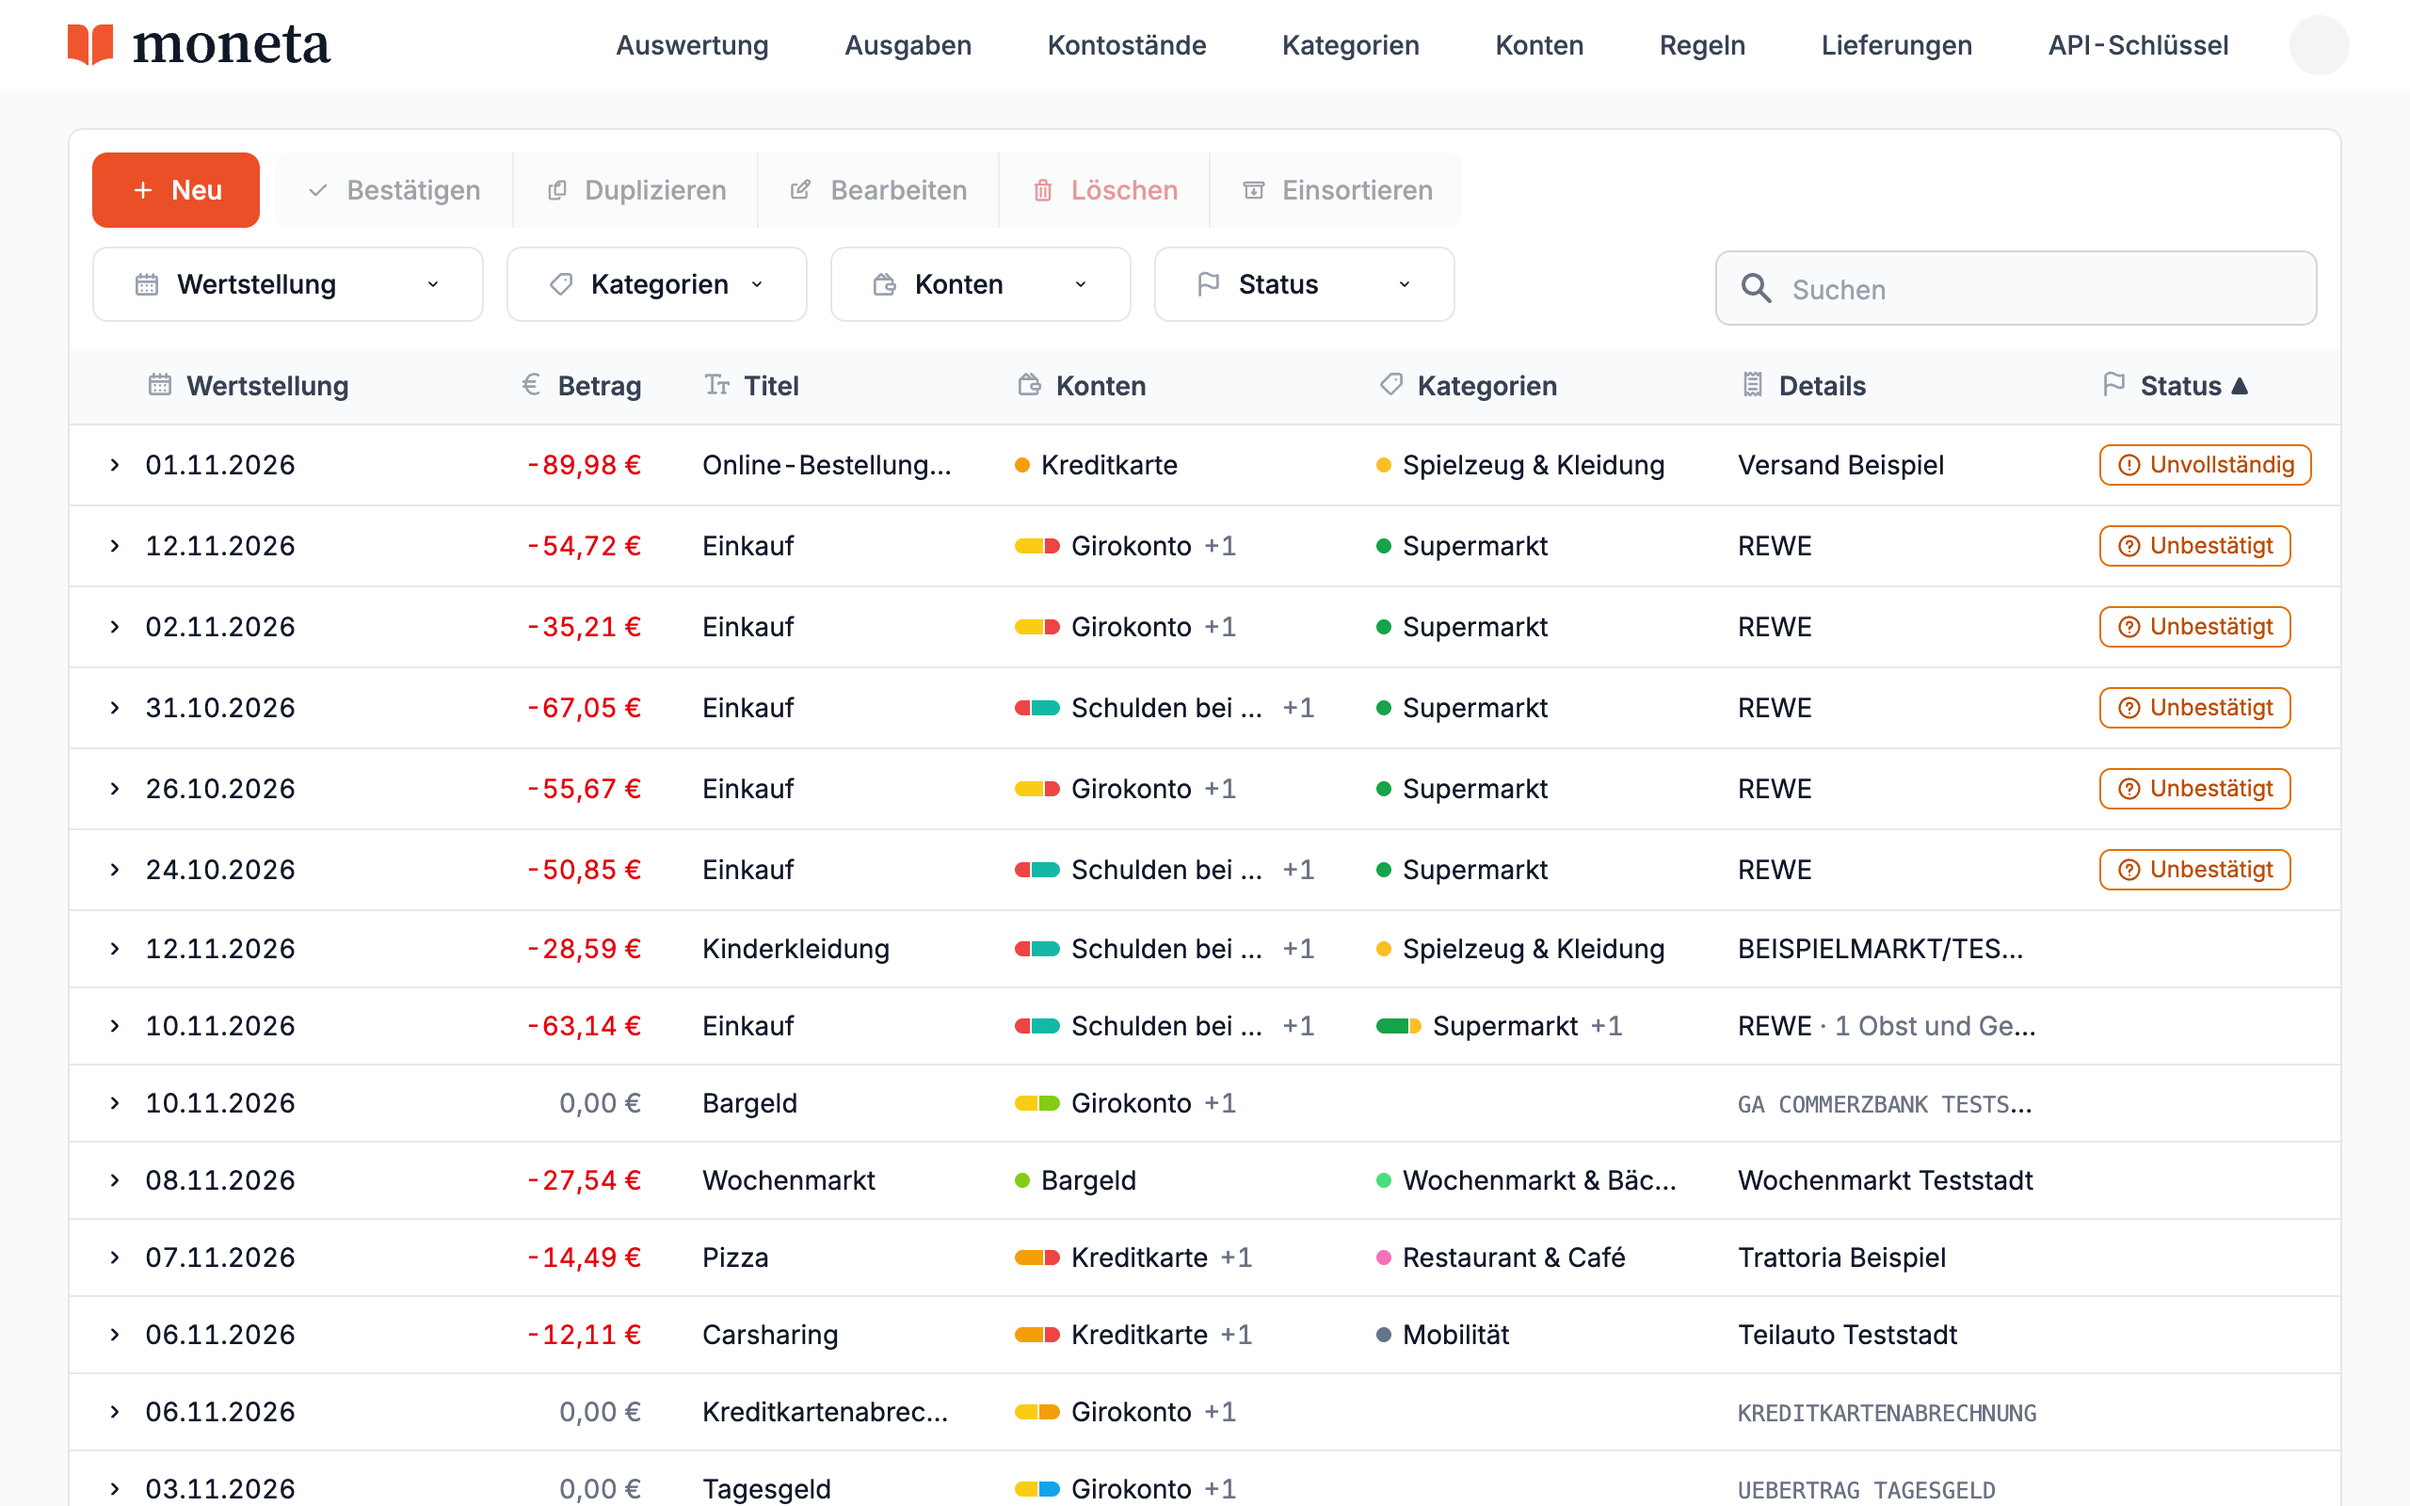
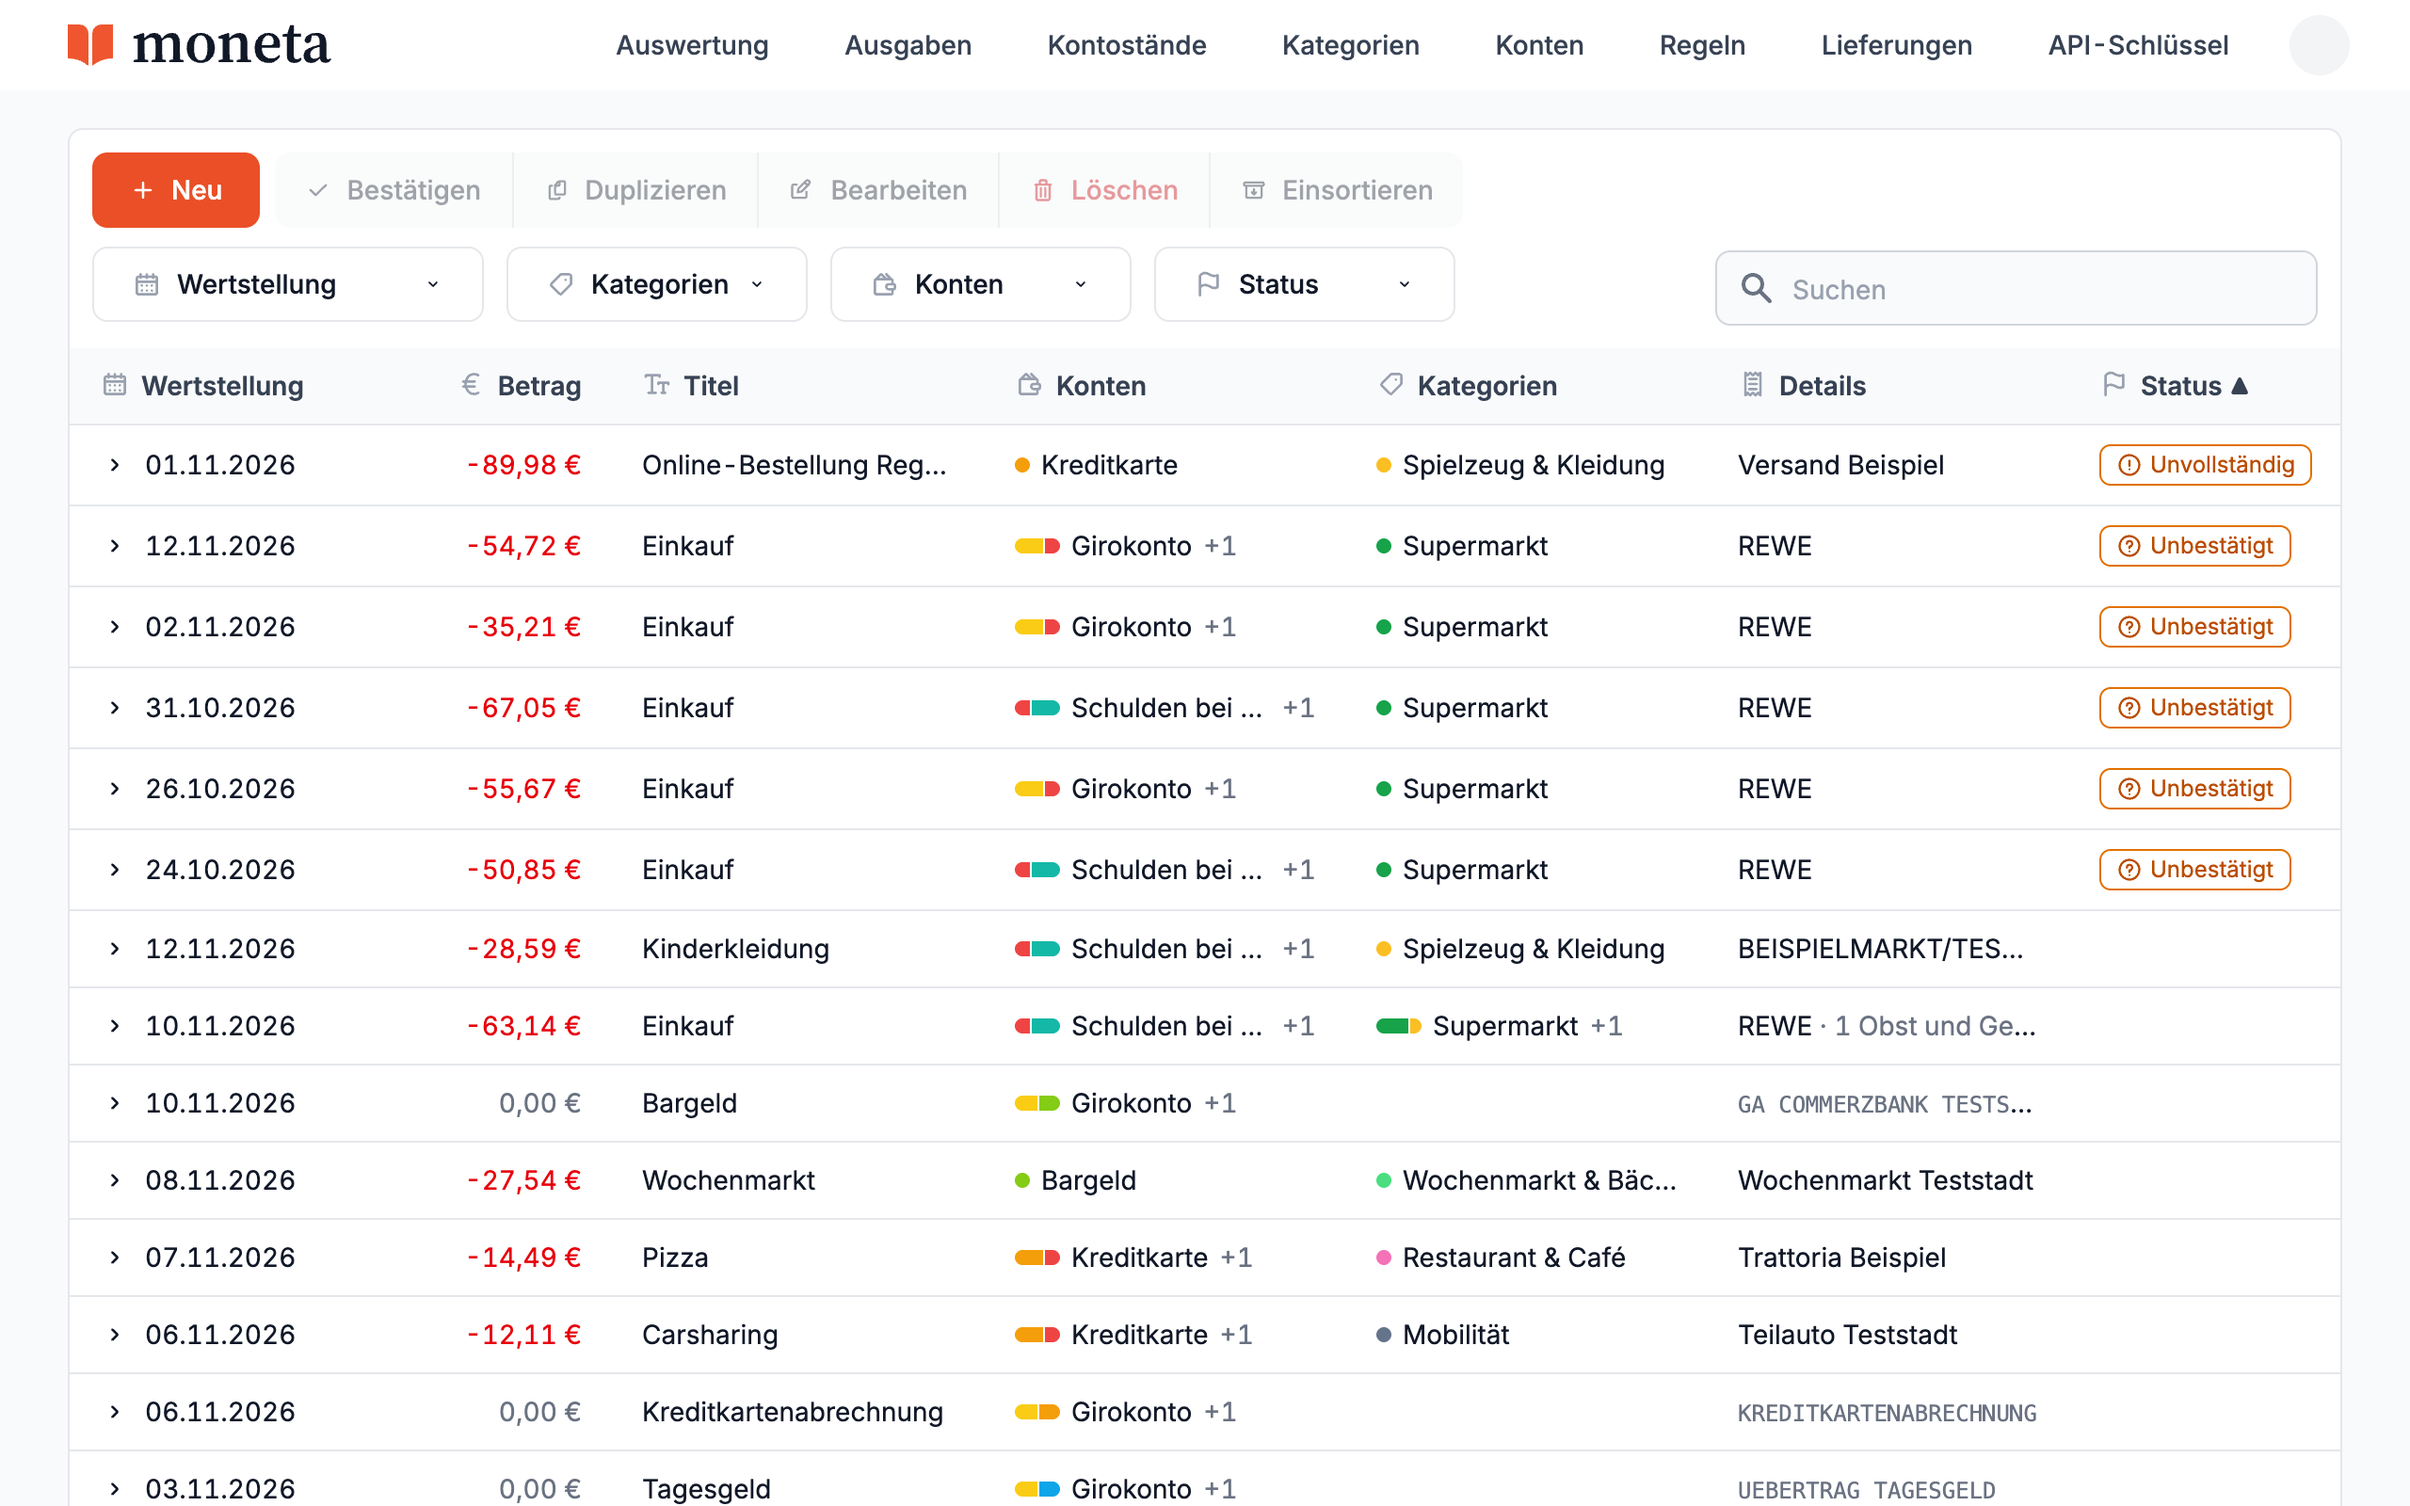
Size the single-date column to its header
The header is the wider part of the column: "Buchungstag" with its icon
and sort arrow is 126px against 104 for the chevron and a date. With the
normal px-4 that is md:w-40 rather than w-48. From md the header's icon
now sits over the chevron, so the label lines up with the date and the
40px left padding that only existed to clear the chevron goes away.

diff --git a/frontend/src/lib/ExpenseTable.svelte b/frontend/src/lib/ExpenseTable.svelte
@@ -1733,17 +1733,19 @@
 		     until the Status column arrives. Below sm the table is not drawn; the list in the
 		     footer is. -->
 		<TableHead>
-			<!-- pl to clear the chevron: it hangs in the column's left margin, and without this the
-			     label started 24px to the left of every date under it. -->
+			<!-- pl-7 below md to clear the chevron, which hangs in the column's left margin: without
+			     it the label started 24px to the left of every date under it. From md the column's
+			     icon takes that place, over the chevron, and the label lines up with the date. -->
 			<!-- Fixed table layout ignores a cell's min-width, so reserve on desktop what the axis
-			     shows: a range's width for the Leistungszeitraum, a single date's otherwise. On
-			     phones the axis label wraps instead, since an unbroken "Leistungszeitraum" would
-			     take half the title's space. -->
+			     shows: a range's width for the Leistungszeitraum, a single date's otherwise. The
+			     header is the wider of the two: "Buchungstag" with its icon and sort arrow is 126px,
+			     the chevron and a date 104. On phones the axis label wraps instead, since an
+			     unbroken "Leistungszeitraum" would take half the title's space. -->
 			<TableHeadCell
-				class="w-28 py-3 pr-2 pl-7 wrap-anywhere md:pr-4 md:pl-10 md:whitespace-nowrap {dateAxis ===
+				class="w-28 py-3 pr-2 pl-7 wrap-anywhere md:px-4 md:whitespace-nowrap {dateAxis ===
 				'accrual'
 					? 'md:w-60'
-					: 'md:w-48'}"
+					: 'md:w-40'}"
 				scope="col"
 				onclick={() => sort.by(axis.sort)}
 			>
